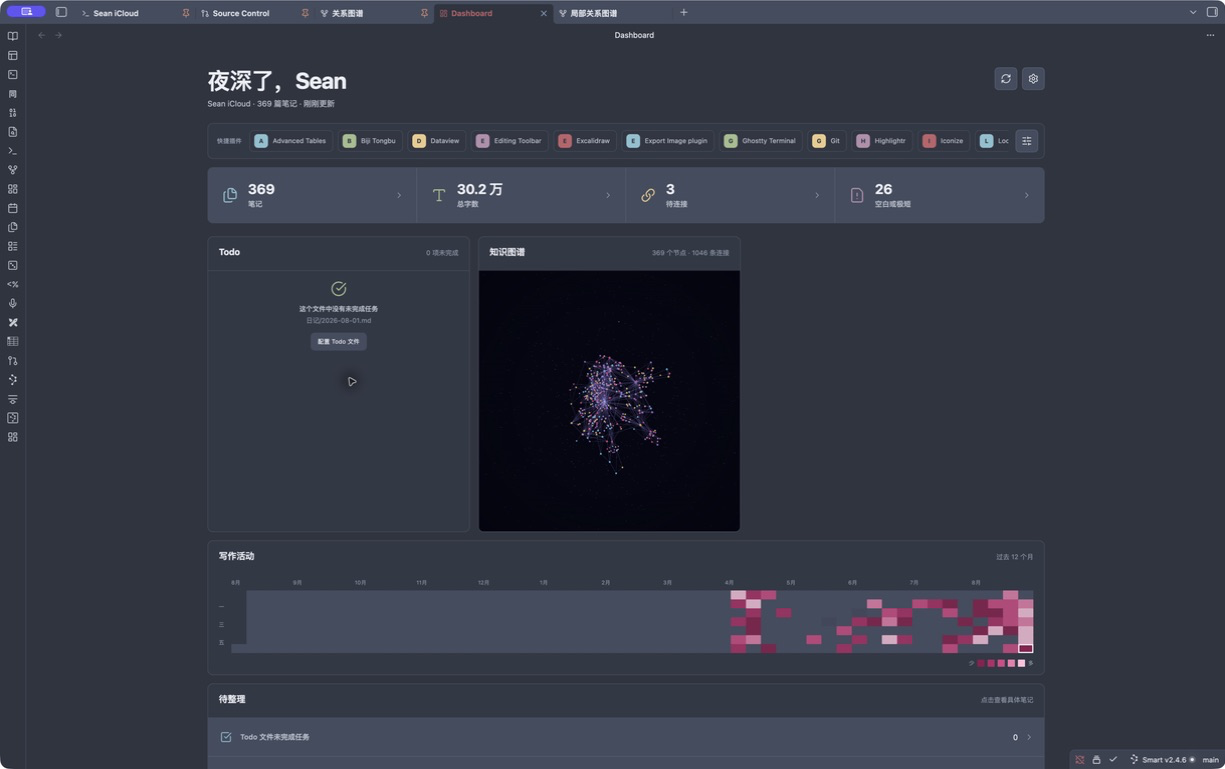
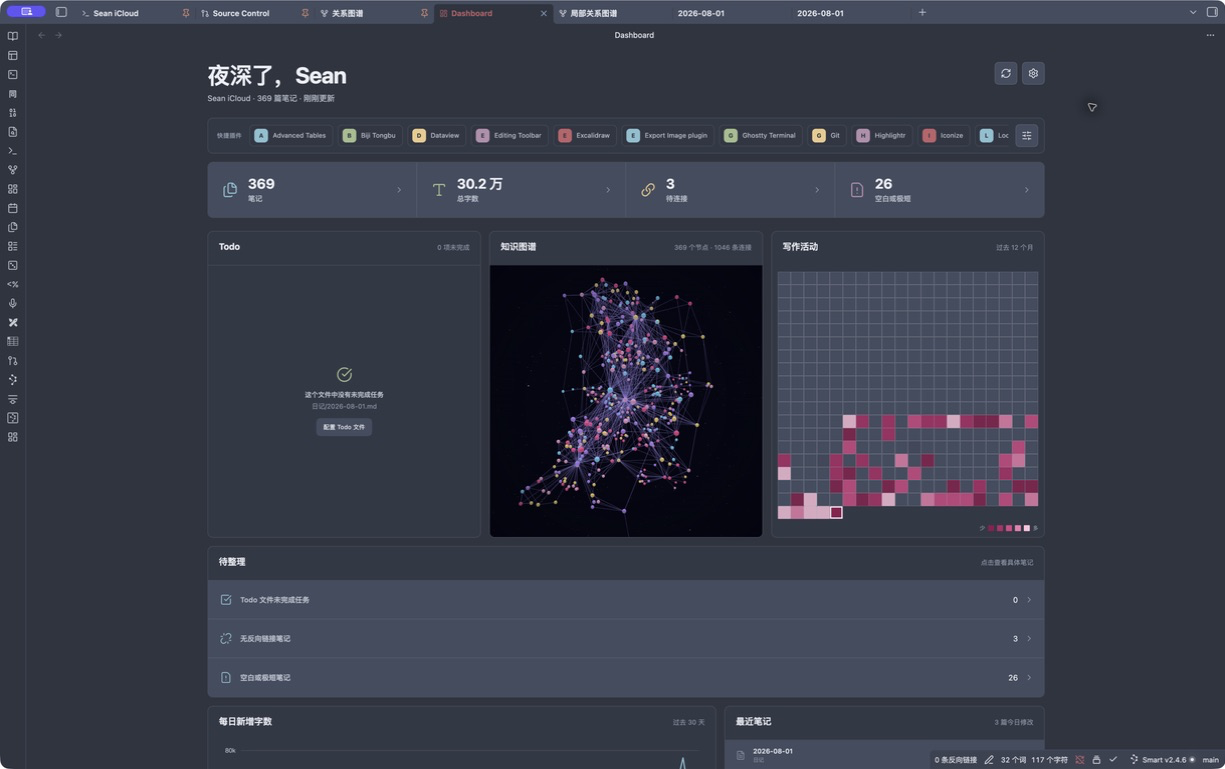
Update English Dashboard fork to 0.2.1

diff --git a/styles.css b/styles.css
@@ -31,6 +31,7 @@
   min-height: 100%;
   margin: 0 auto;
   padding: 34px 38px 42px;
+  container-type: inline-size;
   color: var(--aurora-text);
   font-family: var(--font-interface);
 }
@@ -355,20 +356,28 @@
 }
 
 .aurora-focus-grid {
-  grid-template-columns: repeat(2, minmax(320px, 440px));
+  grid-template-columns: repeat(3, minmax(0, 1fr));
   align-items: stretch;
-  justify-content: start;
   margin-bottom: 14px;
 }
 
 .aurora-todo-surface,
-.aurora-graph-surface {
+.aurora-graph-surface,
+.aurora-activity-surface {
   width: 100%;
-  max-width: 440px;
+  max-width: none;
 }
 
-.aurora-todo-surface {
+.aurora-todo-surface,
+.aurora-activity-surface {
+  display: flex;
   height: 100%;
+  min-height: 0;
+  flex-direction: column;
+}
+
+.aurora-activity-surface {
+  overflow: hidden;
 }
 
 .aurora-lower-grid {
@@ -408,7 +417,12 @@
 }
 
 .aurora-todo-list {
+  display: flex;
+  min-height: 0;
+  overflow-y: auto;
   border-top: 1px solid var(--aurora-border);
+  flex: 1;
+  flex-direction: column;
 }
 
 .aurora-todo-row {
@@ -514,10 +528,12 @@
 
 .aurora-todo-empty {
   display: flex;
-  min-height: 150px;
+  width: 100%;
+  min-height: 0;
   align-items: center;
   justify-content: center;
   flex-direction: column;
+  flex: 1;
   gap: 10px;
   color: var(--aurora-text-faint);
   font-size: 11px;
@@ -545,7 +561,6 @@
   font-size: 10px;
 }
 
-.aurora-activity-surface,
 .aurora-issues-surface {
   margin-bottom: 14px;
 }
@@ -577,52 +592,32 @@
   outline: none;
 }
 
-.aurora-heatmap-body {
-  display: flex;
-  min-height: 0;
-  padding: 8px 18px 3px;
-  gap: 9px;
-  overflow-x: auto;
-}
-
-.aurora-heatmap-weekdays {
+.aurora-heatmap-grid {
   display: grid;
-  min-width: 12px;
-  padding-top: 24px;
-  grid-template-rows: repeat(7, 15px);
+  width: 100%;
+  min-height: 0;
+  margin: 0;
+  padding: 8px 10px 2px;
+  grid-template-columns: repeat(20, minmax(0, 1fr));
   gap: 0;
-  color: var(--aurora-text-faint);
-  font-size: 9px;
-  line-height: 15px;
-}
-
-.aurora-heatmap-content {
-  min-width: 795px;
+  align-content: center;
   flex: 1;
 }
 
-.aurora-heatmap-months {
-  display: grid;
-  height: 19px;
-  grid-auto-flow: column;
-  grid-auto-columns: minmax(38px, 1fr);
-  color: var(--aurora-text-faint);
-  font-size: 9px;
+.aurora-heatmap-grid[data-range="180"] {
+  grid-template-columns: repeat(14, minmax(0, 1fr));
 }
 
-.aurora-heatmap-grid {
-  display: grid;
-  grid-auto-flow: column;
-  grid-template-rows: repeat(7, 15px);
-  grid-auto-columns: minmax(15px, 1fr);
-  gap: 0;
+.aurora-heatmap-grid[data-range="90"] {
+  grid-template-columns: repeat(10, minmax(0, 1fr));
 }
 
 .aurora-heatmap-cell {
   width: 100%;
-  height: 15px;
+  height: auto;
+  aspect-ratio: 1;
   padding: 0;
-  border: 0;
+  border: 0.5px solid color-mix(in srgb, var(--aurora-text-muted) 38%, transparent);
   border-radius: 1px;
   background: color-mix(in srgb, var(--aurora-text-muted) 18%, transparent);
   box-shadow: none;
@@ -668,14 +663,10 @@
   box-shadow: inset 0 0 0 2px var(--aurora-text);
 }
 
-.aurora-heatmap-placeholder {
-  width: 100%;
-  height: 15px;
-}
-
 .aurora-heatmap-legend {
   display: flex;
-  padding: 3px 18px 13px;
+  min-height: 25px;
+  padding: 2px 10px 7px;
   align-items: center;
   justify-content: flex-end;
   gap: 5px;
@@ -684,8 +675,8 @@
 }
 
 .aurora-heatmap-swatch {
-  width: 12px;
-  height: 12px;
+  width: 10px;
+  height: 10px;
   border-radius: 1px;
   background: color-mix(in srgb, var(--aurora-text-muted) 18%, transparent);
 }
@@ -1300,6 +1291,39 @@
   color: var(--text-faint);
   font-size: 11px;
   text-align: center;
+}
+
+@container (max-width: 1120px) {
+  .aurora-focus-grid {
+    grid-template-columns: repeat(2, minmax(0, 1fr));
+  }
+
+  .aurora-activity-surface {
+    width: 100%;
+    max-width: none;
+    height: auto;
+    min-height: 270px;
+    grid-column: 1 / -1;
+  }
+
+}
+
+@container (max-width: 720px) {
+  .aurora-focus-grid {
+    grid-template-columns: 1fr;
+  }
+
+  .aurora-todo-surface,
+  .aurora-graph-surface,
+  .aurora-activity-surface {
+    max-width: none;
+    grid-column: auto;
+  }
+
+  .aurora-todo-surface {
+    height: auto;
+  }
+
 }
 
 @media (max-width: 920px) {

diff --git a/src/dashboard-view.ts b/src/dashboard-view.ts
@@ -163,7 +163,7 @@ export class AuroraDashboardView extends ItemView {
     this.renderGalaxyGraph(graphSurface, snapshot.graph);
 
     const activitySurface = this.createSurface(
-      root,
+      focusGrid,
       "Writing activity",
       this.activitySubtitle()
     );
@@ -556,9 +556,9 @@ export class AuroraDashboardView extends ItemView {
         const camera = graph.cameraPosition();
         graph.cameraPosition(
           {
-            x: camera.x * 0.5,
-            y: camera.y * 0.5,
-            z: camera.z * 0.5
+            x: camera.x * 0.25,
+            y: camera.y * 0.25,
+            z: camera.z * 0.25
           },
           { x: 0, y: 0, z: 0 },
           duration
@@ -648,31 +648,11 @@ export class AuroraDashboardView extends ItemView {
       values[Math.max(0, Math.floor(values.length * 0.9) - 1)] ??
       values.at(-1) ??
       1;
-    const body = surface.createDiv("aurora-heatmap-body");
-    const weekdayLabels = body.createDiv("aurora-heatmap-weekdays");
-    weekdayLabels.createSpan({ text: "" });
-    weekdayLabels.createSpan({ text: "Mon" });
-    weekdayLabels.createSpan({ text: "" });
-    weekdayLabels.createSpan({ text: "Wed" });
-    weekdayLabels.createSpan({ text: "" });
-    weekdayLabels.createSpan({ text: "Fri" });
-    weekdayLabels.createSpan({ text: "" });
-
-    const content = body.createDiv("aurora-heatmap-content");
-    const monthLabels = content.createDiv("aurora-heatmap-months");
-    monthNamesForRange(snapshot.activity).forEach((month) => {
-      monthLabels.createSpan({ text: month });
-    });
-
-    const grid = content.createDiv("aurora-heatmap-grid");
-    const firstDate = snapshot.activity[0]?.date;
-    if (firstDate) {
-      const firstDay = new Date(`${firstDate}T00:00:00`).getDay();
-      for (let index = 0; index < firstDay; index += 1) {
-        grid.createSpan("aurora-heatmap-placeholder");
-      }
-    }
     const today = localDateKey(new Date());
+    const grid = surface.createDiv("aurora-heatmap-grid");
+    grid.dataset.range = String(
+      this.plugin.data.settings.activityHistoryDays
+    );
     snapshot.activity.forEach((day) => {
       const cell = grid.createEl("button", {
         cls: "aurora-heatmap-cell",
@@ -684,9 +664,7 @@ export class AuroraDashboardView extends ItemView {
       cell.dataset.level = String(activityLevel(day.addedWords, max));
       if (day.estimated) cell.addClass("is-estimated");
       if (day.date === today) cell.addClass("is-today");
-      this.listen(cell, "click", () =>
-        this.openActivityDay(day)
-      );
+      this.listen(cell, "click", () => this.openActivityDay(day));
     });
 
     const legend = surface.createDiv("aurora-heatmap-legend");
@@ -1281,21 +1259,4 @@ function formatShortDate(date: string): string {
 function activityAriaLabel(day: DailyActivity): string {
   const source = day.estimated ? ", estimated" : "";
   return `${formatDateLabel(day.date)}, ${day.addedWords} words, ${day.edits} edits${source}`;
-}
-
-function monthNamesForRange(activity: DailyActivity[]): string[] {
-  const months: string[] = [];
-  let previous = -1;
-  activity.forEach((day) => {
-    const month = new Date(`${day.date}T00:00:00`).getMonth();
-    if (month !== previous) {
-      months.push(
-        new Intl.DateTimeFormat("en-CA", { month: "short" }).format(
-          new Date(2026, month, 1)
-        )
-      );
-      previous = month;
-    }
-  });
-  return months;
 }

diff --git a/CHANGELOG.md b/CHANGELOG.md
@@ -1,5 +1,17 @@
 # Changelog
 
+## English fork 0.2.1
+
+- Port the upstream 0.2.1 responsive layout patch while preserving the English interface, validation, and CI.
+
+## 0.2.1
+
+- Place Todo, Knowledge Graph, and Writing Activity in one responsive three-card row.
+- Center the Todo empty state within the complete card body.
+- Use a closer initial graph scale.
+- Remove axes from the daily activity matrix.
+- Expand the activity matrix with subtle day-cell borders.
+
 ## English fork 0.2.0
 
 - Translate the complete Dashboard 0.2.0 interface and presentation formatting to English.
